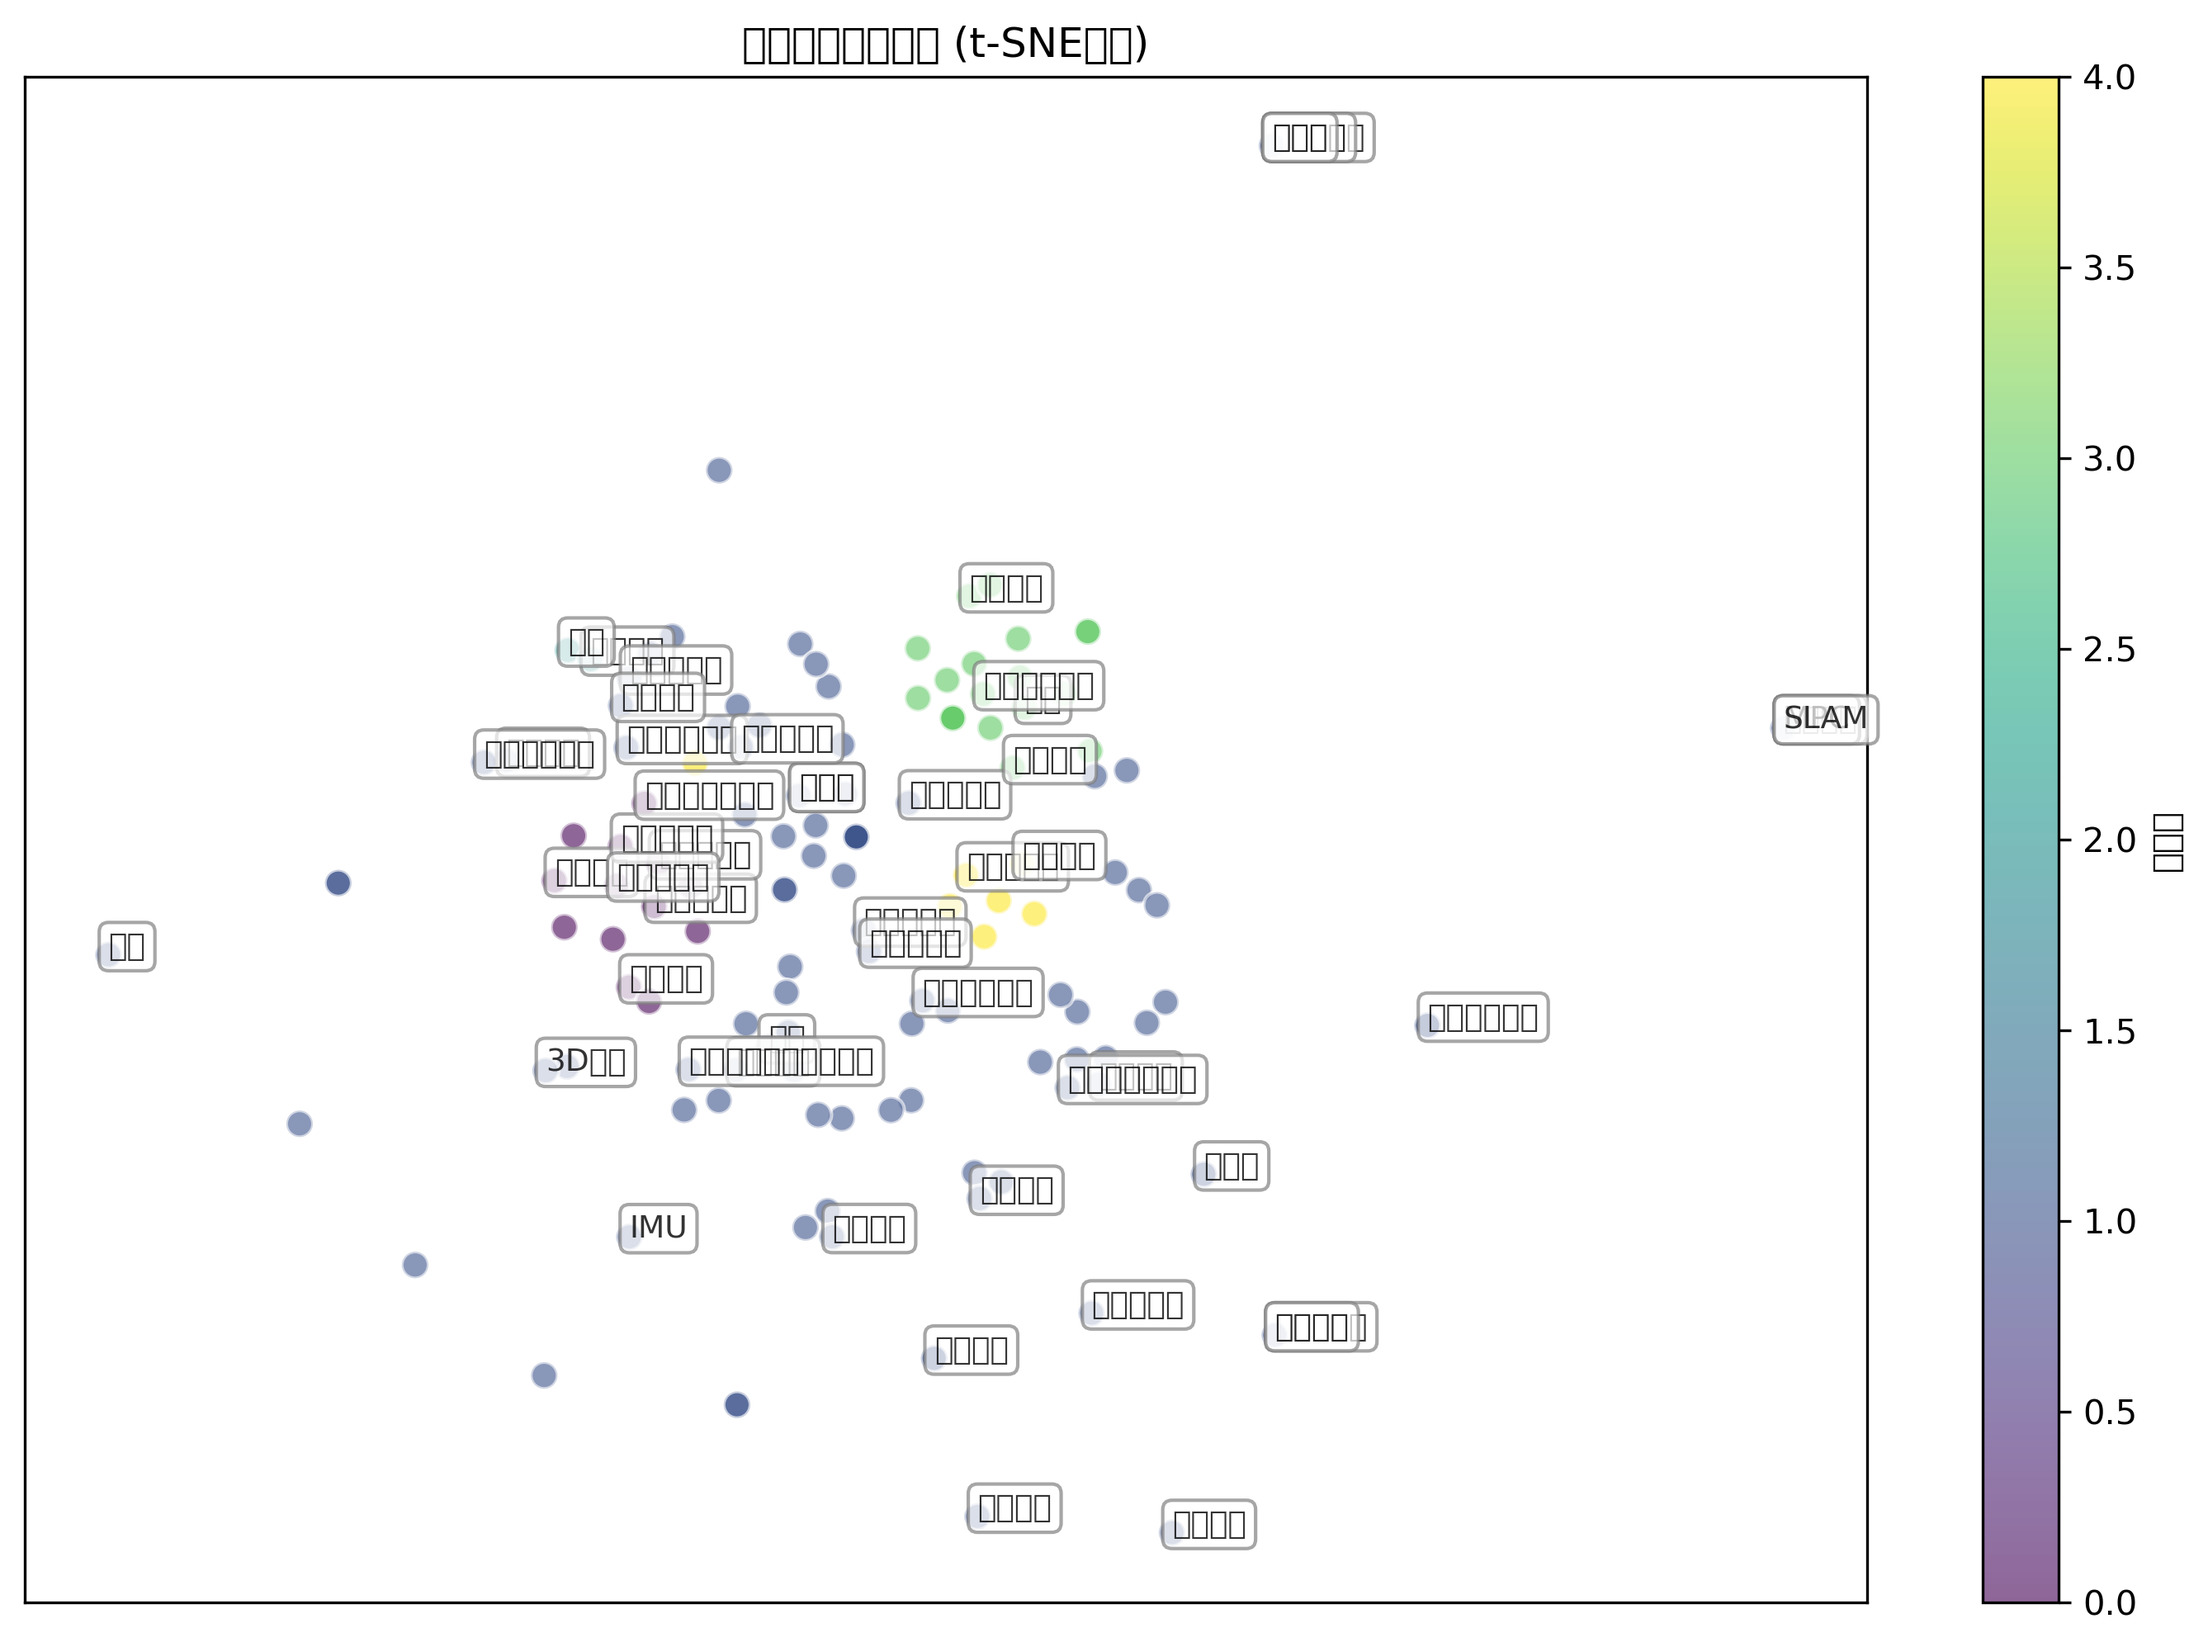
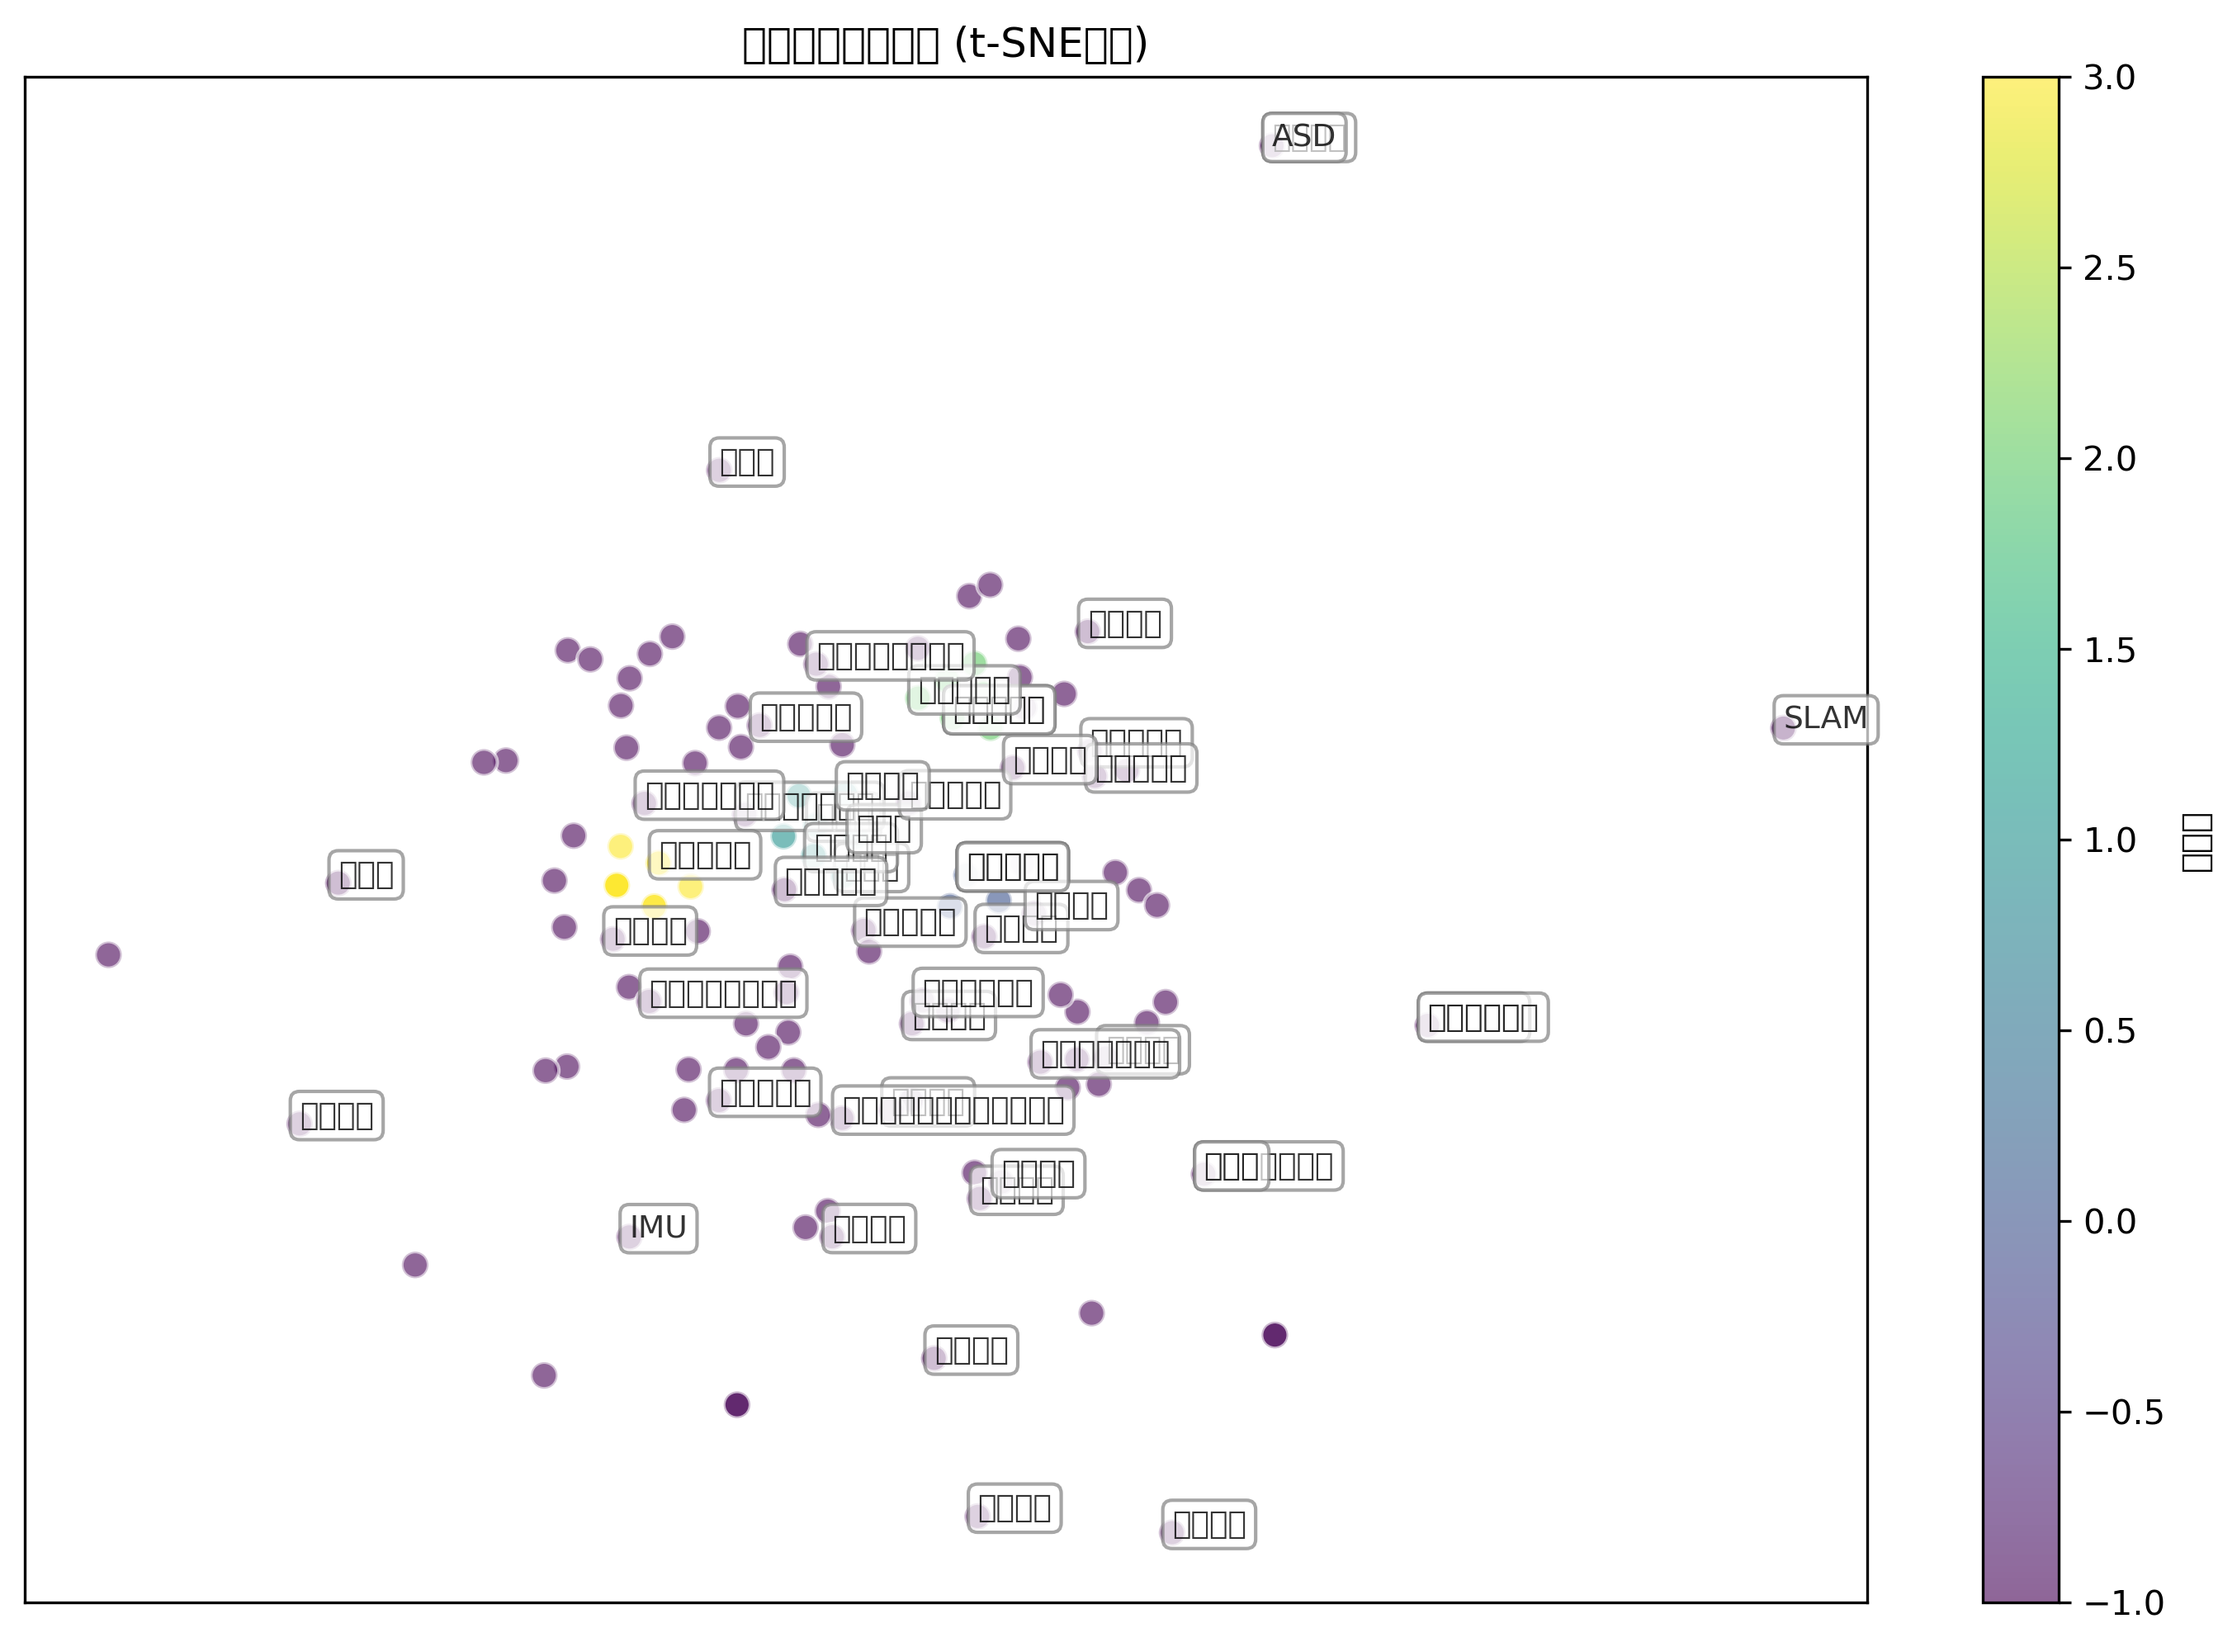
调整

diff --git a/WordCluster/config.py b/WordCluster/config.py
@@ -12,7 +12,7 @@ CUSTOM_DICT_PATH = "custom_dict.txt"   # 自定义词典路径
 
 
 # 聚类算法配置
-CLUSTER_ALGORITHM = "kmeans"          # 可选: kmeans, dbscan
+CLUSTER_ALGORITHM = "dbscan"          # 可选: kmeans, dbscan
 N_CLUSTERS = 5                        # 聚类数量
 RANDOM_STATE = 42                     # 随机种子
 
